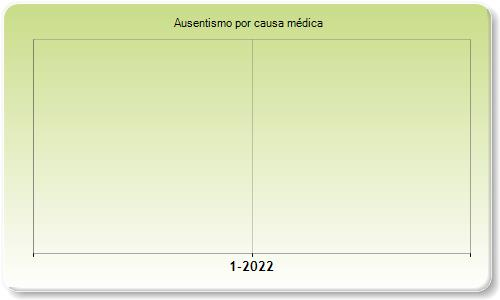
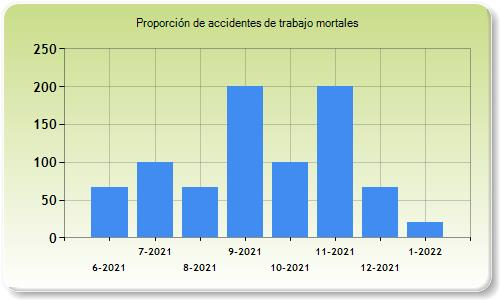
implementación filtrar categoría riesgo

Changed region(s): [[0.06, 0.06, 0.93, 0.93]]

diff --git a/WSafe/WSafe.Web/Controllers/RiesgosController.cs b/WSafe/WSafe.Web/Controllers/RiesgosController.cs
@@ -1,4 +1,5 @@
 using System;
+using System.Collections.Generic;
 using System.Data.Entity;
 using System.Data.Entity.Validation;
 using System.Linq;
@@ -382,5 +383,29 @@ namespace WSafe.Web.Controllers
 
             return View(list);
         }
+        public IEnumerable<SelectListItem> GetPeligros()
+        {
+            List<SelectListItem> peligros = new List<SelectListItem>()
+            {
+                new SelectListItem
+                {
+                    Value = null,
+                    Text = " "
+                }
+            };
+            return peligros;
+        }
+
+        [HttpGet]
+        public ActionResult GetPeligros(int id)
+        {
+            if (id != null)
+            {
+                var peligros = _comboHelper.GetComboPeligros(id);
+                return Json(peligros, JsonRequestBehavior.AllowGet);
+            }
+            return null;
+        }
+
     }
 }

diff --git a/WSafe/WSafe.Domain/Helpers/Implements/ComboHelper.cs b/WSafe/WSafe.Domain/Helpers/Implements/ComboHelper.cs
@@ -52,10 +52,12 @@ namespace WSafe.Domain.Helpers.Implements
         }
         public IEnumerable<SelectListItem> GetComboPeligros(int categoriaID)
         {
-            var list = _empresaContext.Peligros.Select(p => new SelectListItem
+            var list = _empresaContext.Peligros
+                .Where(p => p.CategoriaPeligroID == categoriaID)
+                .Select(p => new SelectListItem
             {
                 Text = p.Descripcion,
-                Value = p.ID.ToString()
+                Value = p.CategoriaPeligroID.ToString()
             })
                 .OrderBy(p => p.Text)
                 .ToList();

diff --git a/WSafe/WSafe.Web/Helpers/Implements/ComboHelper.cs b/WSafe/WSafe.Web/Helpers/Implements/ComboHelper.cs
@@ -52,10 +52,12 @@ namespace WSafe.Domain.Helpers.Implements
         }
         public IEnumerable<SelectListItem> GetComboPeligros(int categoriaID)
         {
-            var list = _empresaContext.Peligros.Select(p => new SelectListItem
+            var list = _empresaContext.Peligros
+                .Where(p => p.CategoriaPeligroID == categoriaID)
+                .Select(p => new SelectListItem
             {
                 Text = p.Descripcion,
-                Value = p.ID.ToString()
+                Value = p.CategoriaPeligroID.ToString()
             })
                 .OrderBy(p => p.Text)
                 .ToList();
